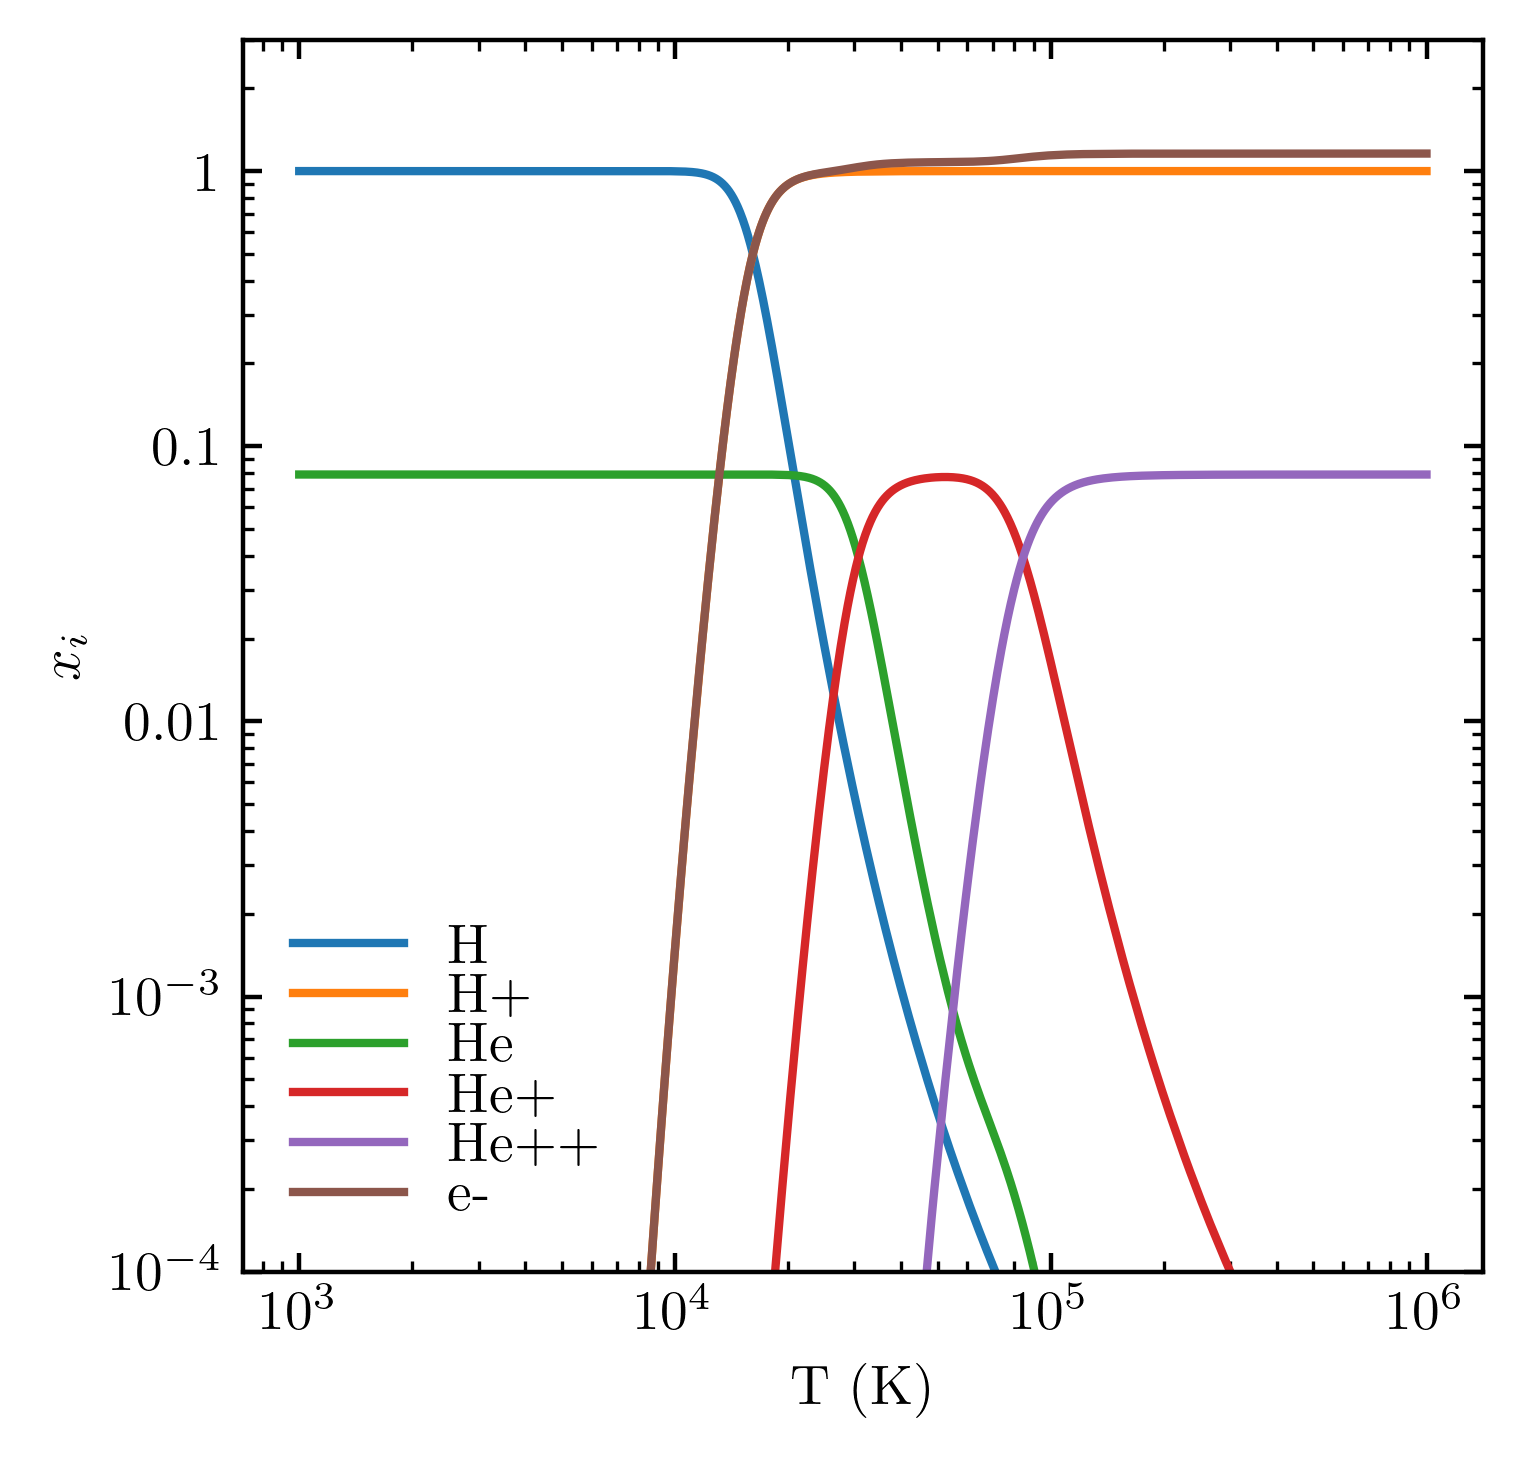
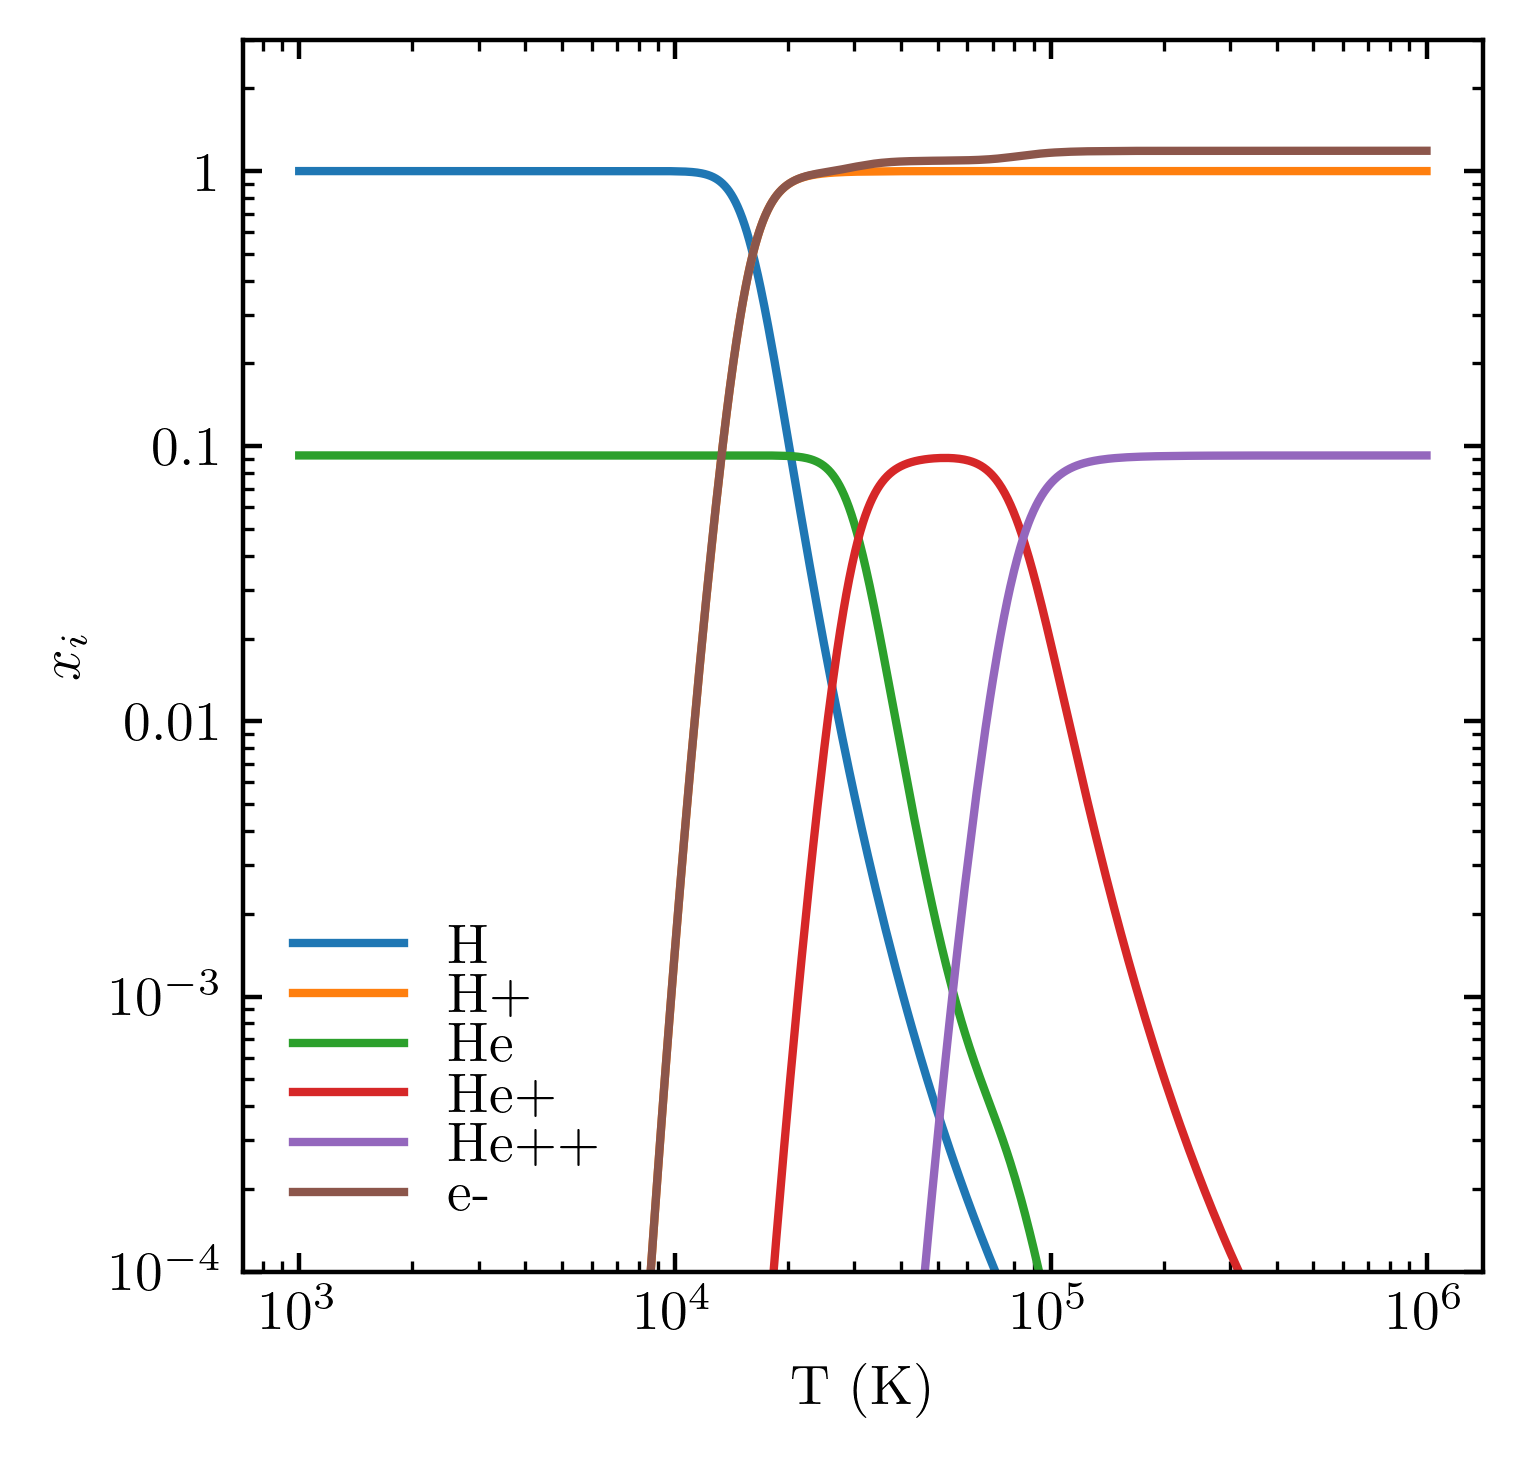
readme update

diff --git a/README.md b/README.md
@@ -2,6 +2,7 @@
 
 [![Python package](https://github.com/mikegrudic/pism/actions/workflows/test.yml/badge.svg)](https://github.com/mikegrudic/pism/actions/workflows/test.yml)
 [![Readthedocs Status][docs-badge]][docs-link]
+[![codecov](https://codecov.io/github/mikegrudic/pism/graph/badge.svg?token=OWJQMWGABZ)](https://codecov.io/github/mikegrudic/pism)
 
 [docs-link]:           https://pism-code.readthedocs.io
 [docs-badge]:          https://readthedocs.org/projects/pism-code/badge
@@ -20,10 +21,9 @@ Once you've constructed your system, `pism` can give you the symbolic equations 
 `pism` is in an early prototyping phase right now. Here are some things I would eventually like to add:
 * Flexible implementation of a reduced network suitable for RHD simulations in GIZMO and potentially other codes.
 * Dust and radiation physics: add the dust energy equation and evolution of photon number densities to the network.
-* Time-dependent solvers: only chemical equilibrium at fixed `T` and thermochemical equilibrium where heating balances cooling are implemented right now.
 * Interfaces to convert from other existing chemistry network formats to the `Process` representation.
 * Solver robustness upgrades: thermochemical networks can be quite challenging numerically, due to how steeply terms switch on with increasing `T`. In can be hard to get a solution without good initial guesses.
-* If possible, glue interface allowing an existing compiled code to call the JAX solvers on-the-fly.
+* If possible, glue interface allowing an existing compiled hydro code to call the JAX solvers on-the-fly.
 
 pls halp.
 
@@ -116,12 +116,12 @@ Summing processes also sums all chemical and gas/dust cooling/heating rates.
 system.print_network_equations()
 ```
 
-    dn_H+/dt = 5.85e-11*sqrt(T)*n_H*n_e-*exp(-157809.1/T)/(sqrt(10)*sqrt(T)/1000 + 1) - 1.41621465870114e-10*n_H+*n_e-/(sqrt(T)*(0.00119216696847702*sqrt(T) + 1.0)**1.748*(0.563615123664978*sqrt(T) + 1.0)**0.252)
-    dn_He+/dt = 2.38e-11*sqrt(T)*n_He*n_e-*exp(-285335.4/T)/(sqrt(10)*sqrt(T)/1000 + 1) - 5.68e-12*sqrt(T)*n_He+*n_e-*exp(-631515/T)/(sqrt(10)*sqrt(T)/1000 + 1) - n_He+*n_e-*(0.0019*(1 + 0.3*exp(-94000.0/T))*exp(-470000.0/T)/T**1.5 + 1.93241606228058e-10/(sqrt(T)*(0.000164934781188511*sqrt(T) + 1.0)**1.7892*(4.84160744811772*sqrt(T) + 1.0)**0.2108)) + 5.66485863480458e-10*n_He++*n_e-/(sqrt(T)*(0.00059608348423851*sqrt(T) + 1.0)**1.748*(0.281807561832489*sqrt(T) + 1.0)**0.252)
-    dn_He++/dt = 5.68e-12*sqrt(T)*n_He+*n_e-*exp(-631515/T)/(sqrt(10)*sqrt(T)/1000 + 1) - 5.66485863480458e-10*n_He++*n_e-/(sqrt(T)*(0.00059608348423851*sqrt(T) + 1.0)**1.748*(0.281807561832489*sqrt(T) + 1.0)**0.252)
-    dn_H/dt = -5.85e-11*sqrt(T)*n_H*n_e-*exp(-157809.1/T)/(sqrt(10)*sqrt(T)/1000 + 1) + 1.41621465870114e-10*n_H+*n_e-/(sqrt(T)*(0.00119216696847702*sqrt(T) + 1.0)**1.748*(0.563615123664978*sqrt(T) + 1.0)**0.252)
     dn_He/dt = -2.38e-11*sqrt(T)*n_He*n_e-*exp(-285335.4/T)/(sqrt(10)*sqrt(T)/1000 + 1) + n_He+*n_e-*(0.0019*(1 + 0.3*exp(-94000.0/T))*exp(-470000.0/T)/T**1.5 + 1.93241606228058e-10/(sqrt(T)*(0.000164934781188511*sqrt(T) + 1.0)**1.7892*(4.84160744811772*sqrt(T) + 1.0)**0.2108))
+    dn_He++/dt = 5.68e-12*sqrt(T)*n_He+*n_e-*exp(-631515/T)/(sqrt(10)*sqrt(T)/1000 + 1) - 5.66485863480458e-10*n_He++*n_e-/(sqrt(T)*(0.00059608348423851*sqrt(T) + 1.0)**1.748*(0.281807561832489*sqrt(T) + 1.0)**0.252)
+    dn_He+/dt = 2.38e-11*sqrt(T)*n_He*n_e-*exp(-285335.4/T)/(sqrt(10)*sqrt(T)/1000 + 1) - 5.68e-12*sqrt(T)*n_He+*n_e-*exp(-631515/T)/(sqrt(10)*sqrt(T)/1000 + 1) - n_He+*n_e-*(0.0019*(1 + 0.3*exp(-94000.0/T))*exp(-470000.0/T)/T**1.5 + 1.93241606228058e-10/(sqrt(T)*(0.000164934781188511*sqrt(T) + 1.0)**1.7892*(4.84160744811772*sqrt(T) + 1.0)**0.2108)) + 5.66485863480458e-10*n_He++*n_e-/(sqrt(T)*(0.00059608348423851*sqrt(T) + 1.0)**1.748*(0.281807561832489*sqrt(T) + 1.0)**0.252)
+    dn_H/dt = -5.85e-11*sqrt(T)*n_H*n_e-*exp(-157809.1/T)/(sqrt(10)*sqrt(T)/1000 + 1) + 1.41621465870114e-10*n_H+*n_e-/(sqrt(T)*(0.00119216696847702*sqrt(T) + 1.0)**1.748*(0.563615123664978*sqrt(T) + 1.0)**0.252)
     dn_e-/dt = 5.85e-11*sqrt(T)*n_H*n_e-*exp(-157809.1/T)/(sqrt(10)*sqrt(T)/1000 + 1) + 2.38e-11*sqrt(T)*n_He*n_e-*exp(-285335.4/T)/(sqrt(10)*sqrt(T)/1000 + 1) + 5.68e-12*sqrt(T)*n_He+*n_e-*exp(-631515/T)/(sqrt(10)*sqrt(T)/1000 + 1) - n_He+*n_e-*(0.0019*(1 + 0.3*exp(-94000.0/T))*exp(-470000.0/T)/T**1.5 + 1.93241606228058e-10/(sqrt(T)*(0.000164934781188511*sqrt(T) + 1.0)**1.7892*(4.84160744811772*sqrt(T) + 1.0)**0.2108)) - 1.41621465870114e-10*n_H+*n_e-/(sqrt(T)*(0.00119216696847702*sqrt(T) + 1.0)**1.748*(0.563615123664978*sqrt(T) + 1.0)**0.252) - 5.66485863480458e-10*n_He++*n_e-/(sqrt(T)*(0.00059608348423851*sqrt(T) + 1.0)**1.748*(0.281807561832489*sqrt(T) + 1.0)**0.252)
+    dn_H+/dt = 5.85e-11*sqrt(T)*n_H*n_e-*exp(-157809.1/T)/(sqrt(10)*sqrt(T)/1000 + 1) - 1.41621465870114e-10*n_H+*n_e-/(sqrt(T)*(0.00119216696847702*sqrt(T) + 1.0)**1.748*(0.563615123664978*sqrt(T) + 1.0)**0.252)
 
 
 ## Solving ionization equilibrium
@@ -132,9 +132,8 @@ We would like to solve for ionization equilibrium given a temperature $T$, overa
 ```python
 Tgrid = np.logspace(3,6,10**6)
 ngrid = np.ones_like(Tgrid) * 100
-Ygrid = 0.24*np.ones_like(Tgrid)
 
-knowns = {"T": Tgrid, "n_Htot": ngrid, "Y": Ygrid}
+knowns = {"T": Tgrid, "n_Htot": ngrid}
 
 ```
 
@@ -151,13 +150,13 @@ sol = system.steadystate(knowns, guesses,tol=1e-3)
 print(sol)
 ```
 
-    {'He+': Array([6.6661010e-13, 6.6769382e-13, 6.6752680e-13, ..., 6.5619070e-06,
-           6.5618315e-06, 6.5617519e-06], dtype=float32), 'H': Array([9.9999994e-01, 9.9999994e-01, 9.9999994e-01, ..., 6.0612069e-07,
-           6.0611501e-07, 6.0610915e-07], dtype=float32), 'He': Array([7.8947365e-02, 7.8947365e-02, 7.8947365e-02, ..., 2.3453643e-09,
-           2.3453146e-09, 2.3452629e-09], dtype=float32), 'H+': Array([7.6293944e-08, 7.6293944e-08, 7.6293944e-08, ..., 9.9999940e-01,
-           9.9999940e-01, 9.9999940e-01], dtype=float32), 'e-': Array([8.5830024e-08, 8.5830024e-08, 8.5830024e-08, ..., 1.1578876e+00,
-           1.1578876e+00, 1.1578876e+00], dtype=float32), 'He++': Array([4.767705e-09, 4.767704e-09, 4.767704e-09, ..., 7.894081e-02,
-           7.894081e-02, 7.894081e-02], dtype=float32)}
+    {'He': Array([9.2606544e-02, 9.2606544e-02, 9.2606544e-02, ..., 2.7511506e-09,
+           2.7510927e-09, 2.7510323e-09], dtype=float32), 'He+': Array([8.9897827e-13, 8.9897631e-13, 8.9908132e-13, ..., 7.6972237e-06,
+           7.6971355e-06, 7.6970427e-06], dtype=float32), 'H': Array([9.9999994e-01, 9.9999994e-01, 9.9999994e-01, ..., 6.0612069e-07,
+           6.0611495e-07, 6.0610915e-07], dtype=float32), 'H+': Array([7.6293944e-08, 7.6293944e-08, 7.6293944e-08, ..., 9.9999940e-01,
+           9.9999940e-01, 9.9999940e-01], dtype=float32), 'e-': Array([9.5366531e-08, 9.5366531e-08, 9.5366531e-08, ..., 1.1852047e+00,
+           1.1852047e+00, 1.1852047e+00], dtype=float32), 'He++': Array([9.5358441e-09, 9.5358441e-09, 9.5358441e-09, ..., 9.2598855e-02,
+           9.2598855e-02, 9.2598855e-02], dtype=float32)}
 
 
 

diff --git a/docs/source/Quickstart.rst b/docs/source/Quickstart.rst
@@ -99,12 +99,12 @@ rates.
 
 .. parsed-literal::
 
-    dn_H+/dt = 5.85e-11*sqrt(T)*n_H*n_e-*exp(-157809.1/T)/(sqrt(10)*sqrt(T)/1000 + 1) - 1.41621465870114e-10*n_H+*n_e-/(sqrt(T)*(0.00119216696847702*sqrt(T) + 1.0)**1.748*(0.563615123664978*sqrt(T) + 1.0)**0.252)
-    dn_He+/dt = 2.38e-11*sqrt(T)*n_He*n_e-*exp(-285335.4/T)/(sqrt(10)*sqrt(T)/1000 + 1) - 5.68e-12*sqrt(T)*n_He+*n_e-*exp(-631515/T)/(sqrt(10)*sqrt(T)/1000 + 1) - n_He+*n_e-*(0.0019*(1 + 0.3*exp(-94000.0/T))*exp(-470000.0/T)/T**1.5 + 1.93241606228058e-10/(sqrt(T)*(0.000164934781188511*sqrt(T) + 1.0)**1.7892*(4.84160744811772*sqrt(T) + 1.0)**0.2108)) + 5.66485863480458e-10*n_He++*n_e-/(sqrt(T)*(0.00059608348423851*sqrt(T) + 1.0)**1.748*(0.281807561832489*sqrt(T) + 1.0)**0.252)
-    dn_He++/dt = 5.68e-12*sqrt(T)*n_He+*n_e-*exp(-631515/T)/(sqrt(10)*sqrt(T)/1000 + 1) - 5.66485863480458e-10*n_He++*n_e-/(sqrt(T)*(0.00059608348423851*sqrt(T) + 1.0)**1.748*(0.281807561832489*sqrt(T) + 1.0)**0.252)
-    dn_H/dt = -5.85e-11*sqrt(T)*n_H*n_e-*exp(-157809.1/T)/(sqrt(10)*sqrt(T)/1000 + 1) + 1.41621465870114e-10*n_H+*n_e-/(sqrt(T)*(0.00119216696847702*sqrt(T) + 1.0)**1.748*(0.563615123664978*sqrt(T) + 1.0)**0.252)
     dn_He/dt = -2.38e-11*sqrt(T)*n_He*n_e-*exp(-285335.4/T)/(sqrt(10)*sqrt(T)/1000 + 1) + n_He+*n_e-*(0.0019*(1 + 0.3*exp(-94000.0/T))*exp(-470000.0/T)/T**1.5 + 1.93241606228058e-10/(sqrt(T)*(0.000164934781188511*sqrt(T) + 1.0)**1.7892*(4.84160744811772*sqrt(T) + 1.0)**0.2108))
+    dn_He++/dt = 5.68e-12*sqrt(T)*n_He+*n_e-*exp(-631515/T)/(sqrt(10)*sqrt(T)/1000 + 1) - 5.66485863480458e-10*n_He++*n_e-/(sqrt(T)*(0.00059608348423851*sqrt(T) + 1.0)**1.748*(0.281807561832489*sqrt(T) + 1.0)**0.252)
+    dn_He+/dt = 2.38e-11*sqrt(T)*n_He*n_e-*exp(-285335.4/T)/(sqrt(10)*sqrt(T)/1000 + 1) - 5.68e-12*sqrt(T)*n_He+*n_e-*exp(-631515/T)/(sqrt(10)*sqrt(T)/1000 + 1) - n_He+*n_e-*(0.0019*(1 + 0.3*exp(-94000.0/T))*exp(-470000.0/T)/T**1.5 + 1.93241606228058e-10/(sqrt(T)*(0.000164934781188511*sqrt(T) + 1.0)**1.7892*(4.84160744811772*sqrt(T) + 1.0)**0.2108)) + 5.66485863480458e-10*n_He++*n_e-/(sqrt(T)*(0.00059608348423851*sqrt(T) + 1.0)**1.748*(0.281807561832489*sqrt(T) + 1.0)**0.252)
+    dn_H/dt = -5.85e-11*sqrt(T)*n_H*n_e-*exp(-157809.1/T)/(sqrt(10)*sqrt(T)/1000 + 1) + 1.41621465870114e-10*n_H+*n_e-/(sqrt(T)*(0.00119216696847702*sqrt(T) + 1.0)**1.748*(0.563615123664978*sqrt(T) + 1.0)**0.252)
     dn_e-/dt = 5.85e-11*sqrt(T)*n_H*n_e-*exp(-157809.1/T)/(sqrt(10)*sqrt(T)/1000 + 1) + 2.38e-11*sqrt(T)*n_He*n_e-*exp(-285335.4/T)/(sqrt(10)*sqrt(T)/1000 + 1) + 5.68e-12*sqrt(T)*n_He+*n_e-*exp(-631515/T)/(sqrt(10)*sqrt(T)/1000 + 1) - n_He+*n_e-*(0.0019*(1 + 0.3*exp(-94000.0/T))*exp(-470000.0/T)/T**1.5 + 1.93241606228058e-10/(sqrt(T)*(0.000164934781188511*sqrt(T) + 1.0)**1.7892*(4.84160744811772*sqrt(T) + 1.0)**0.2108)) - 1.41621465870114e-10*n_H+*n_e-/(sqrt(T)*(0.00119216696847702*sqrt(T) + 1.0)**1.748*(0.563615123664978*sqrt(T) + 1.0)**0.252) - 5.66485863480458e-10*n_He++*n_e-/(sqrt(T)*(0.00059608348423851*sqrt(T) + 1.0)**1.748*(0.281807561832489*sqrt(T) + 1.0)**0.252)
+    dn_H+/dt = 5.85e-11*sqrt(T)*n_H*n_e-*exp(-157809.1/T)/(sqrt(10)*sqrt(T)/1000 + 1) - 1.41621465870114e-10*n_H+*n_e-/(sqrt(T)*(0.00119216696847702*sqrt(T) + 1.0)**1.748*(0.563615123664978*sqrt(T) + 1.0)**0.252)
 
 
 Solving ionization equilibrium
@@ -120,9 +120,8 @@ of the species in the reduced network.
 
     Tgrid = np.logspace(3,6,10**6)
     ngrid = np.ones_like(Tgrid) * 100
-    Ygrid = 0.24*np.ones_like(Tgrid)
     
-    knowns = {"T": Tgrid, "n_Htot": ngrid, "Y": Ygrid}
+    knowns = {"T": Tgrid, "n_Htot": ngrid}
 
 
 Note that by default, the solver only directly solves for
@@ -145,13 +144,13 @@ for those 3 quantities. By default the solver takes abundances
 
 .. parsed-literal::
 
-    {'He+': Array([6.6661010e-13, 6.6769382e-13, 6.6752680e-13, ..., 6.5619070e-06,
-           6.5618315e-06, 6.5617519e-06], dtype=float32), 'H': Array([9.9999994e-01, 9.9999994e-01, 9.9999994e-01, ..., 6.0612069e-07,
-           6.0611501e-07, 6.0610915e-07], dtype=float32), 'He': Array([7.8947365e-02, 7.8947365e-02, 7.8947365e-02, ..., 2.3453643e-09,
-           2.3453146e-09, 2.3452629e-09], dtype=float32), 'H+': Array([7.6293944e-08, 7.6293944e-08, 7.6293944e-08, ..., 9.9999940e-01,
-           9.9999940e-01, 9.9999940e-01], dtype=float32), 'e-': Array([8.5830024e-08, 8.5830024e-08, 8.5830024e-08, ..., 1.1578876e+00,
-           1.1578876e+00, 1.1578876e+00], dtype=float32), 'He++': Array([4.767705e-09, 4.767704e-09, 4.767704e-09, ..., 7.894081e-02,
-           7.894081e-02, 7.894081e-02], dtype=float32)}
+    {'He': Array([9.2606544e-02, 9.2606544e-02, 9.2606544e-02, ..., 2.7511506e-09,
+           2.7510927e-09, 2.7510323e-09], dtype=float32), 'He+': Array([8.9897827e-13, 8.9897631e-13, 8.9908132e-13, ..., 7.6972237e-06,
+           7.6971355e-06, 7.6970427e-06], dtype=float32), 'H': Array([9.9999994e-01, 9.9999994e-01, 9.9999994e-01, ..., 6.0612069e-07,
+           6.0611495e-07, 6.0610915e-07], dtype=float32), 'H+': Array([7.6293944e-08, 7.6293944e-08, 7.6293944e-08, ..., 9.9999940e-01,
+           9.9999940e-01, 9.9999940e-01], dtype=float32), 'e-': Array([9.5366531e-08, 9.5366531e-08, 9.5366531e-08, ..., 1.1852047e+00,
+           1.1852047e+00, 1.1852047e+00], dtype=float32), 'He++': Array([9.5358441e-09, 9.5358441e-09, 9.5358441e-09, ..., 9.2598855e-02,
+           9.2598855e-02, 9.2598855e-02], dtype=float32)}
 
 
 .. code:: ipython3

diff --git a/README_base.md b/README_base.md
@@ -1,0 +1,33 @@
+# pism
+
+[![Python package](https://github.com/mikegrudic/pism/actions/workflows/test.yml/badge.svg)](https://github.com/mikegrudic/pism/actions/workflows/test.yml)
+[![Readthedocs Status][docs-badge]][docs-link]
+[![codecov](https://codecov.io/github/mikegrudic/pism/graph/badge.svg?token=OWJQMWGABZ)](https://codecov.io/github/mikegrudic/pism)
+
+[docs-link]:           https://pism-code.readthedocs.io
+[docs-badge]:          https://readthedocs.org/projects/pism-code/badge
+
+`pism` is a flexible, object-oriented implementation for systems of ISM microphysics and chemistry equations, with numerical solvers implemented in JAX, and interfaces for embedding the equations and their Jacobians into other codes.
+
+## Do we really need yet another ISM code?
+
+`pism` might be interesting because it combines two powerful concepts:
+1. **Object-oriented implementation of microphysics and chemistry via the `Process` class**, which implements methods for representing physical processes, composing them into a network in a fully-symbolic `sympy` representation. OOP is nice here because if you want to add a new process to `pism`, you typically only have to do it in one file. Rate expressions never have to be repeated in-code. Most processes one would want to implement follow very common patterns (e.g. 2-body processes), so class inheritance is also used to minimize new lines of code. 
+Once you've constructed your system, `pism` can give you the symbolic equations to manipulate and analyze as you please. If you want to solve the equations numerically, `Process` has methods for substituting known values into numerical solvers. It can also automatically generate compilable implementations of the RHS of the system to embed in your choice of simulation code and plug into your choice of solver.
+2. **Fast, differentiable implementation of nonlinear algebraic and differential-algebraic equation solvers with JAX**, implemented in its functional programming paradigm (e.g. `pism.numerics.newton_rootsolve`). These can achieve excellent numerical throughput running natively on GPUs - in fact, crunching iterates in-place is essentially the best-case application of numerics on GPUs. Differentiability enables sensitivity analysis with respect to all parameters in a single pass, instead of constructing a grid of `N` parameter variations for `N` parameters. This makes it easier in principle to directly answer questions like "How sensitive is this temperature to the abundance of C or the ionization energy of H?", etc.
+
+## Roadmap
+
+`pism` is in an early prototyping phase right now. Here are some things I would eventually like to add:
+* Flexible implementation of a reduced network suitable for RHD simulations in GIZMO and potentially other codes.
+* Dust and radiation physics: add the dust energy equation and evolution of photon number densities to the network.
+* Interfaces to convert from other existing chemistry network formats to the `Process` representation.
+* Solver robustness upgrades: thermochemical networks can be quite challenging numerically, due to how steeply terms switch on with increasing `T`. In can be hard to get a solution without good initial guesses.
+* If possible, glue interface allowing an existing compiled hydro code to call the JAX solvers on-the-fly.
+
+pls halp.
+
+## Installation
+
+Clone the repo and run `pip install .` from the directory.
+
